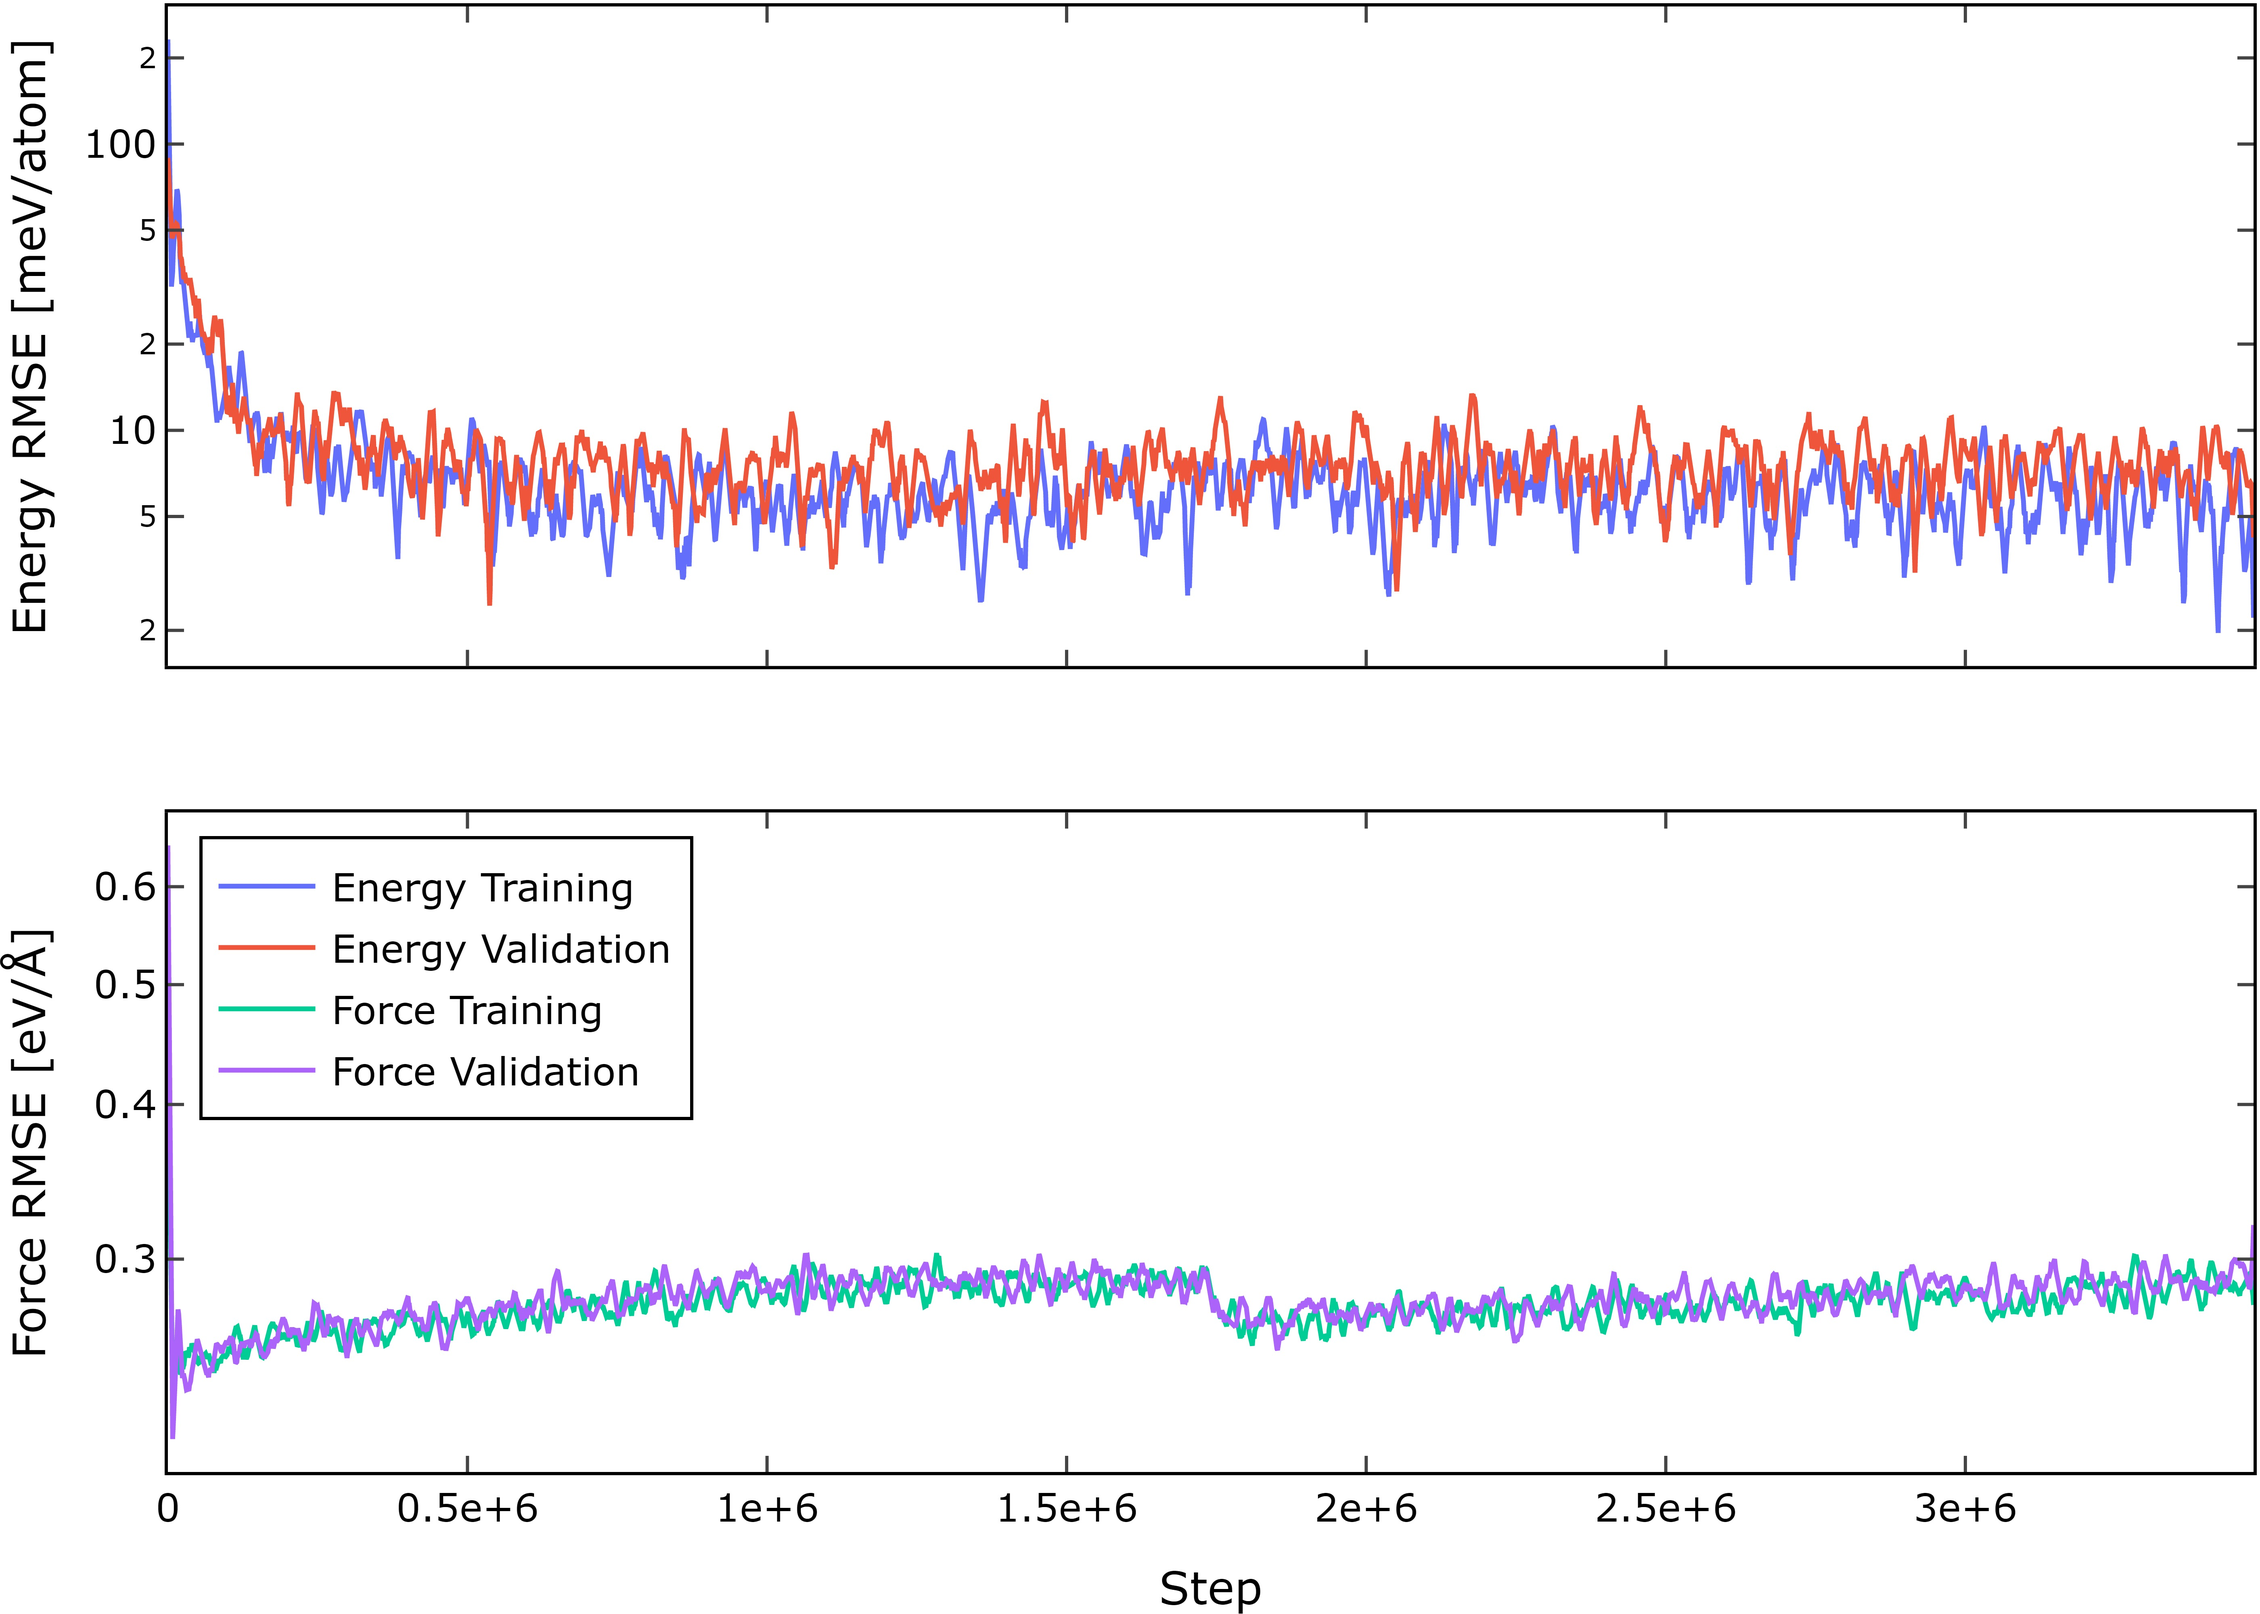
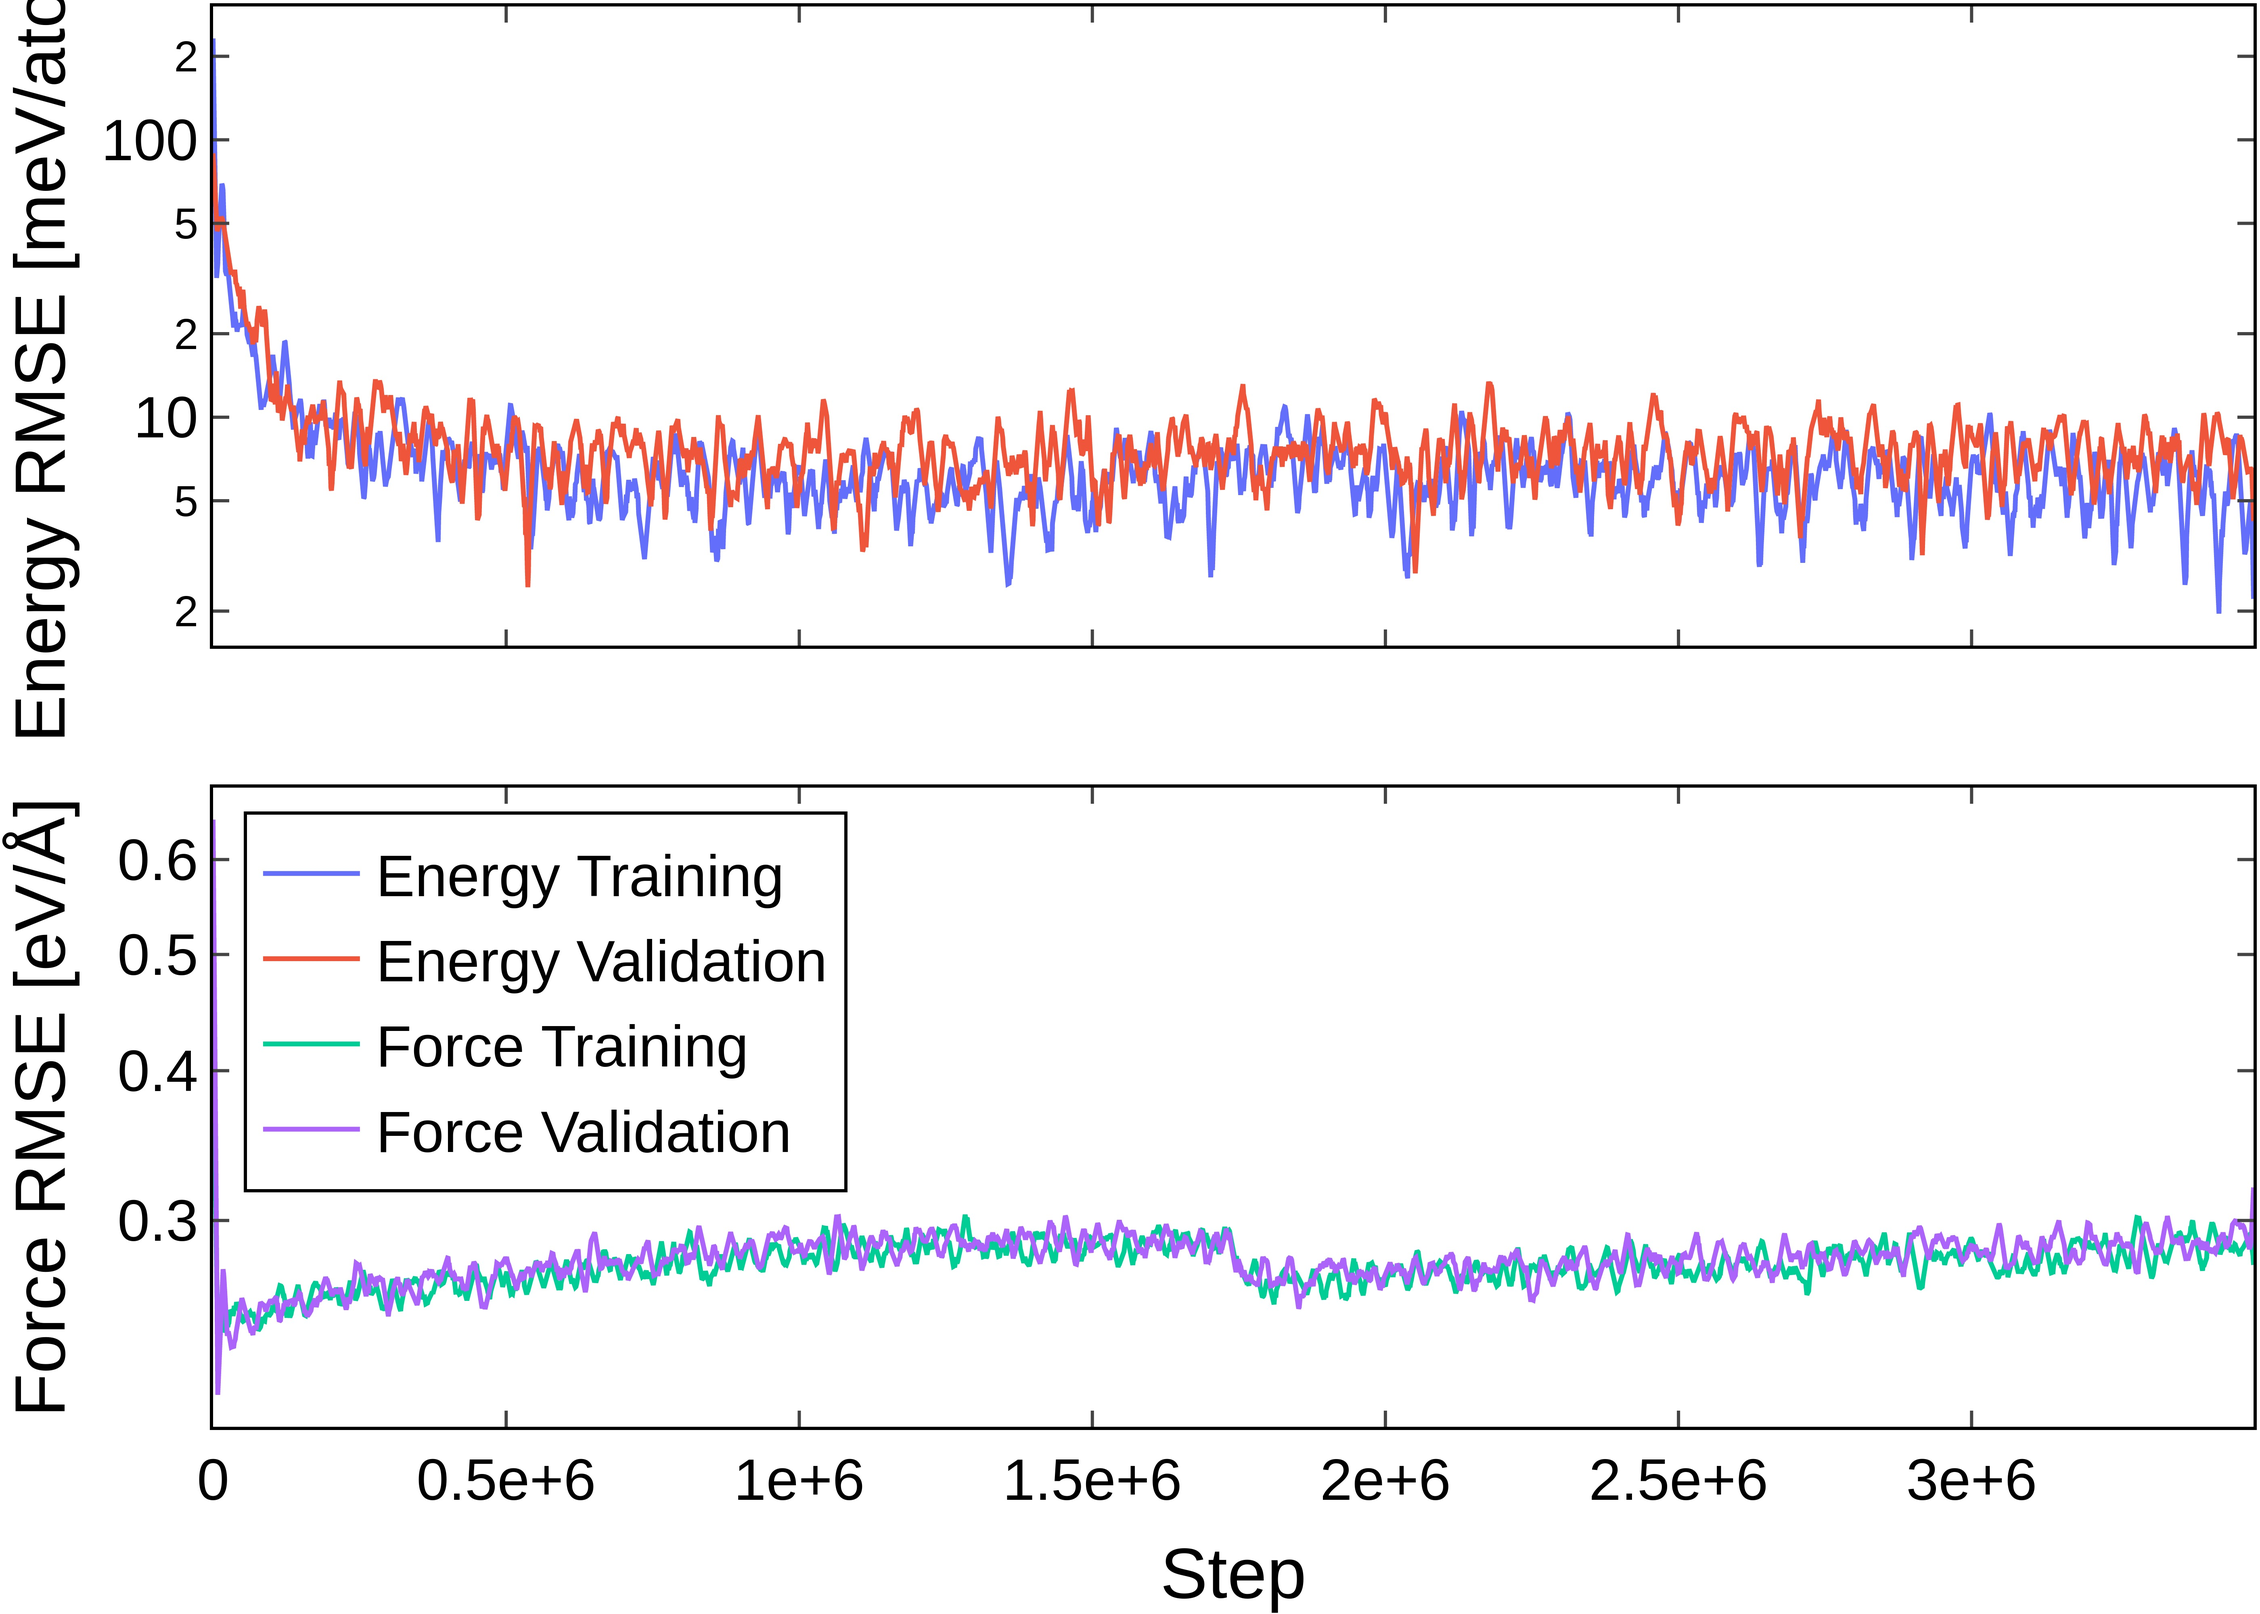
fix: l curve plots font size

diff --git a/ml4md/plot_l_curves_subplots.py b/ml4md/plot_l_curves_subplots.py
@@ -151,10 +151,11 @@ def plot_l_cuves(data, output_file, savgol_window=40):
 
     fig.update_layout(
         font_color="#000",
+        font_size=18,
         plot_bgcolor="#fff",
         legend=dict(
             x=.015,
-            y=.24,
+            y=.165,
             traceorder="normal",
             bordercolor="#000",
             borderwidth=1,
